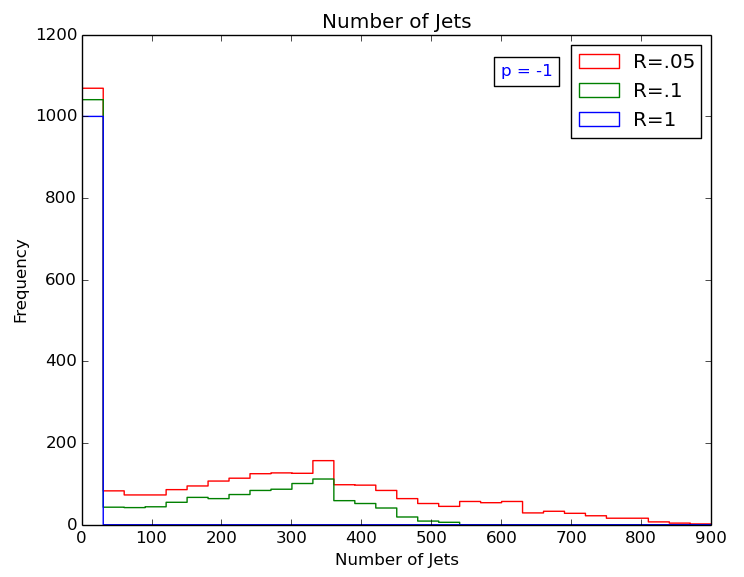
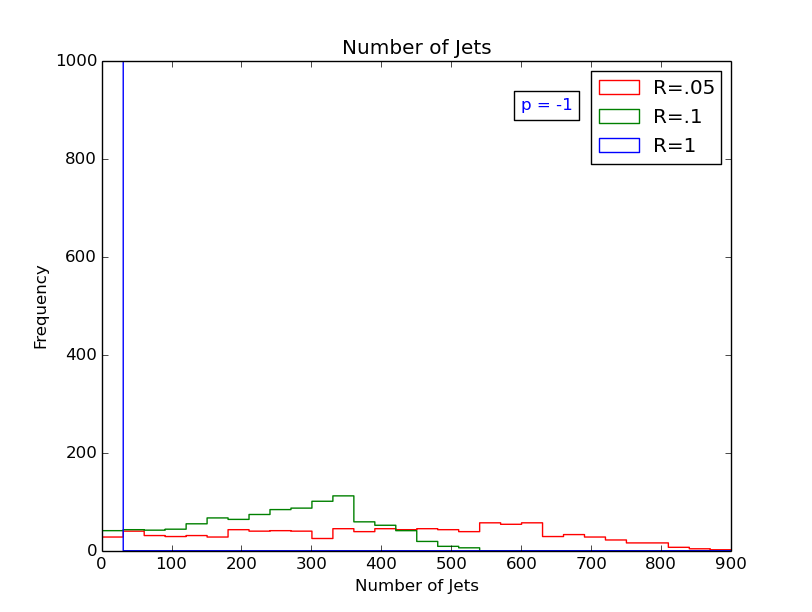
pictures edit

Changed region(s): [[0.0, 0.0312, 0.9892, 0.9983]]

diff --git a/Khalid/aims_rwanda-research-project_template/chapter4.tex b/Khalid/aims_rwanda-research-project_template/chapter4.tex
@@ -16,7 +16,7 @@ An example of a jet observable is the number of the constituents in the jet with
 %The histogram in figure \ref{nofcon} shows the data taken from running a jetty event 1000 times and then clustering  using anti-$k_t$ algorithm. Here, different values of the parameter $R$ were chosen.
 \begin{figure}[hbtp]
 \centering
-\includegraphics[scale=.31]{images/figure_12.png}
+\includegraphics[scale=.8]{images/n_of_con_obs.png}
 \caption{The number of constituents of a jet observable for as it is calculated different  values of $R$.  
 %Note that here we are looking at the difference on the $y$ axis. The values that correspond to $R = .1$ are the differnce between the blue line $R = 1$ and maximum of $R = .1$.
 }\label{nofcon}
@@ -39,7 +39,7 @@ The histograms in figures \ref{nofcon} and  \ref{pseudomass} illustrate the resu
 %\Jnote{There are three histograms, not two.}
 \begin{figure}[hbtp]
  \centering
- \includegraphics[scale=.7]{images/figure_13.png}
+ \includegraphics[scale=.65]{images/figure_13.png}
  \caption{The pseudo-mass of jet observable for different values of $R$. 
 %  Note that here we are looking at the difference on the $y$ axis. The values that correspond to $R = .1$ are the differnce between the blue line $R = 1$ and maximum of $R = .1$.
 }
@@ -58,7 +58,7 @@ The histogram in figure \ref{nofjet} shows the results of clustering 1000 events
 
 \begin{figure}[hbtp]
  \centering
- \includegraphics[scale=.6]{images/n_of_jets_obs.png}
+ \includegraphics[scale=.8]{images/n_of_jets_obs.png}
  \caption{Number of jets for different values of $R$. Note that here we are looking at the difference on the $y$ axis. 
 % The values that correspond to $R = .1$ are the differnce between the blue line $R = 1$ and maximum of $R = .1$.  
  }\label{nofjet}
